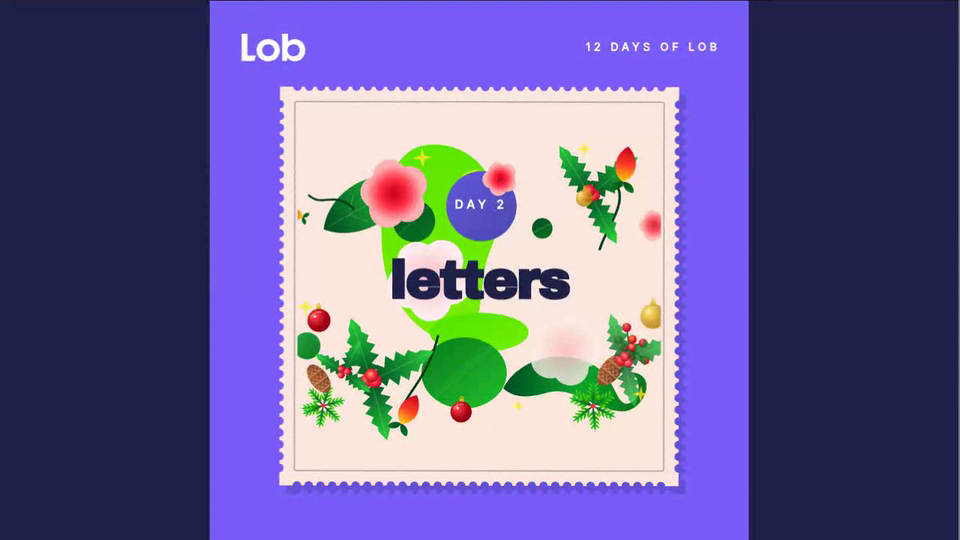
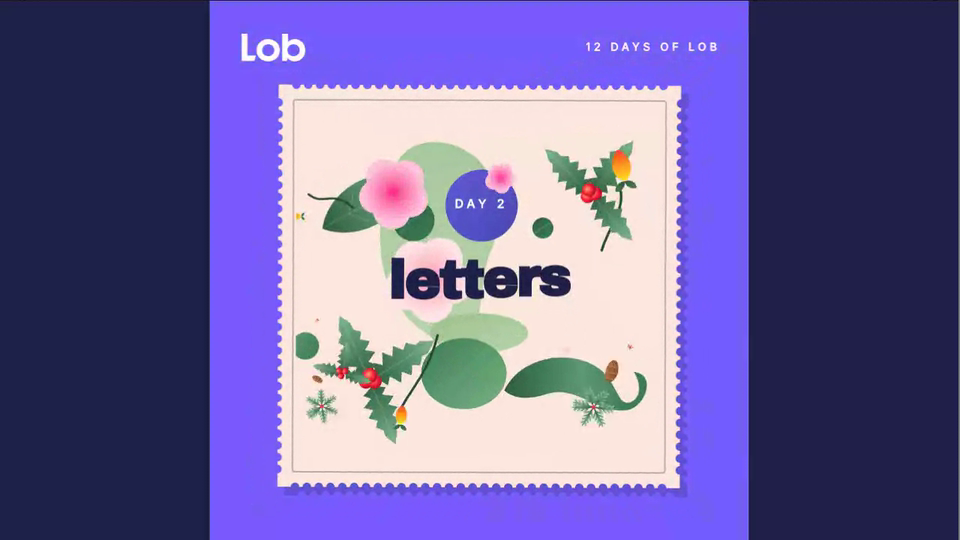
Lob 12 Days Advent: brighter reds and pinks back, muted greens in the stamp, no sparkles, gradient baubles
Claude-Session: https://claude.ai/code/session_01AHeBdxfESGkB61WPERPkmT

Changed region(s): [[0.2812, 0.1481, 0.7188, 0.9185]]

diff --git a/lob-12-days/index.html b/lob-12-days/index.html
@@ -68,8 +68,8 @@ function txt(s,a,b,size,col,{w='bold',f='Arial',al='left',ls=0,it=false,max=0}={
   x.fillText(s,a,b);x.restore()}
 
 /* ---------- botanical bouquet, airbrushed gradients on cream ---------- */
-const CREAM='#FCE8DF',DG='#00391B';
-const PAL={pink:['#FF2D8B','#FF7FB5','#FFC2DD'],red:['#C8001F','#FF2A3D','#FFB3B8'],orange:['#FF5A1F','#FF9E6B','#FFD0B5'],snow:['#FF86B8','#FFD0E4','#FFF1F6'],blush:['#FFB9C4','#FFD3D9','#FFEDEF']};
+const CREAM='#FCE8DF',DG='#27493A';
+const PAL={pink:['#FF2D8B','#FF7FB5','#FFC2DD'],red:['#FF2A3D','#FF7A8A','#FFC7CF'],orange:['#FF5A1F','#FF9E6B','#FFD0B5'],snow:['#FF86B8','#FFD0E4','#FFF1F6'],blush:['#FF9DB8','#FFC0D0','#FFE3EA']};
 const sn=(a,b)=>Math.sin(T*a+(b||0));
 function lg(x0,y0,x1,y1,st){const g=x.createLinearGradient(x0,y0,x1,y1);st.forEach(([o,c])=>g.addColorStop(o,c));return g}
 function rg(cx,cy,r0,r1,st){const g=x.createRadialGradient(cx,cy,r0,cx,cy,r1);st.forEach(([o,c])=>g.addColorStop(o,c));return g}
@@ -84,39 +84,39 @@ function petals(r,pal,n,wid,tip){for(let k=0;k<n;k++){x.save();x.rotate(k*Math.P
     x.fillStyle=lg(0,0,L,0,[[0,pal[0]],[.5,pal[1]],[1,pal[2]]]);x.fill();x.strokeStyle='rgba(255,255,255,.55)';x.lineWidth=2;x.lineCap='round';x.beginPath();x.moveTo(L*.12,0);x.lineTo(L*.88,0);x.moveTo(L*.15,0);x.lineTo(L*.7,-L*wid*.55);x.moveTo(L*.15,0);x.lineTo(L*.7,L*wid*.55);x.stroke();x.restore()}}
 function lily(r,pal){petals(r,pal,6,.34,false);x.beginPath();x.arc(0,0,r*.1,0,7);x.fillStyle=pal[0];x.fill()}
 function poin(r,pal){petals(r,['#C8102E','#FF2A3D','#FF8A80'],8,.3,true);x.save();x.rotate(.4);petals(r*.68,['#E31B3C','#FF4B5C','#FFB3B8'],7,.3,true);x.restore();
-  [[0,0,.1],[.12,-.1,.07],[-.1,-.12,.07],[.1,.12,.07],[-.13,.08,.07],[0,-.2,.06],[.2,0,.06]].forEach(([a,b,q],i)=>{x.beginPath();x.arc(a*r,b*r,q*r,0,7);x.fillStyle=rg(a*r,b*r,0,q*r,[[0,'#F3FF3A'],[1,i%2?'#FF9E1F':'#9AE600']]);x.fill()})}
+  [[0,0,.1],[.12,-.1,.07],[-.1,-.12,.07],[.1,.12,.07],[-.13,.08,.07],[0,-.2,.06],[.2,0,.06]].forEach(([a,b,q],i)=>{x.beginPath();x.arc(a*r,b*r,q*r,0,7);x.fillStyle=rg(a*r,b*r,0,q*r,[[0,'#F3FF3A'],[1,i%2?'#FF9E1F':'#A9C47A']]);x.fill()})}
 function holly(r){[[-1.95,.95],[-.5,1],[1.25,.9]].forEach(([a,k])=>{x.save();x.rotate(a);const L=r*k,W=L*.24;x.beginPath();const top=[],bot=[];for(let i=0;i<=6;i++){const t=i/6,hw=Math.sin(Math.PI*Math.pow(t,.75))*W;top.push([L*t,-hw]);top.push([L*(t+1/12),-hw*.5]);bot.push([L*t,hw]);bot.push([L*(t+1/12),hw*.5])}
-    x.moveTo(0,0);top.forEach(p=>x.lineTo(p[0],p[1]));x.lineTo(L,0);bot.reverse().forEach(p=>x.lineTo(p[0],p[1]));x.closePath();x.fillStyle=lg(0,0,L,0,[[0,'#004C25'],[1,'#27D63A']]);x.fill();x.strokeStyle='rgba(255,255,255,.3)';x.lineWidth=2;x.beginPath();x.moveTo(L*.05,0);x.lineTo(L*.92,0);x.stroke();x.restore()});
+    x.moveTo(0,0);top.forEach(p=>x.lineTo(p[0],p[1]));x.lineTo(L,0);bot.reverse().forEach(p=>x.lineTo(p[0],p[1]));x.closePath();x.fillStyle=lg(0,0,L,0,[[0,'#2F5D45'],[1,'#7DB88A']]);x.fill();x.strokeStyle='rgba(255,255,255,.3)';x.lineWidth=2;x.beginPath();x.moveTo(L*.05,0);x.lineTo(L*.92,0);x.stroke();x.restore()});
   [[-12,0],[12,2],[0,-16]].forEach(([a,b])=>{x.beginPath();x.arc(a,b,r*.1,0,7);x.fillStyle=rg(a-4,b-4,0,r*.12,[[0,'#FFB07A'],[.5,'#FF2A3D'],[1,'#B0102A']]);x.fill()})}
-function fir(r){for(let k=0;k<7;k++){x.save();x.rotate(-Math.PI*.95+k*Math.PI*.32);const L=r*(.8+((k*3)%3)*.12);leaf(L,L*.07,'#004C25','#1FC62A',false);
-    for(let t=.2;t<.85;t+=.17){[-1,1].forEach(sg=>{x.save();x.translate(L*t,0);x.rotate(sg*.75);leaf(L*.38*(1-t*.5),L*.055,t<.5?'#0A7A1E':'#0FA82C','#5DE800',false);x.restore()})}x.restore()}
+function fir(r){for(let k=0;k<7;k++){x.save();x.rotate(-Math.PI*.95+k*Math.PI*.32);const L=r*(.8+((k*3)%3)*.12);leaf(L,L*.07,'#2F5D45','#7BB486',false);
+    for(let t=.2;t<.85;t+=.17){[-1,1].forEach(sg=>{x.save();x.translate(L*t,0);x.rotate(sg*.75);leaf(L*.38*(1-t*.5),L*.055,t<.5?'#3F7D59':'#5E9B6F','#A9C99C',false);x.restore()})}x.restore()}
   x.beginPath();x.arc(0,0,r*.07,0,7);x.fillStyle='#FF2A3D';x.fill()}
-function mistle(r){for(let k=0;k<4;k++){x.save();x.rotate(-Math.PI*.8+k*Math.PI*.45);leaf(r*.85,r*.2,'#6FD100','#EEFF4A');x.translate(r*.4,0);x.rotate(.7);leaf(r*.5,r*.14,'#9AE600','#F3FF70',false);x.restore()}
+function mistle(r){for(let k=0;k<4;k++){x.save();x.rotate(-Math.PI*.8+k*Math.PI*.45);leaf(r*.85,r*.2,'#9FB873','#DDE7A0');x.translate(r*.4,0);x.rotate(.7);leaf(r*.5,r*.14,'#A9C47A','#E6EEB8',false);x.restore()}
   [[-14,-8],[12,-12],[0,10],[16,10],[-18,12]].forEach(([a,b])=>{x.beginPath();x.arc(a,b,r*.11,0,7);x.fillStyle=rg(a-4,b-4,0,r*.13,[[0,'#FFFFFF'],[1,'#FFD6E6']]);x.fill()})}
-function berry(r){x.strokeStyle='#0A7A1E';x.lineWidth=5;x.lineCap='round';const P=[];for(let k=0;k<9;k++){const a=k*2.4,d=r*(.12+k*.085);P.push([Math.cos(a)*d,Math.sin(a)*d])}
+function berry(r){x.strokeStyle='#3F7D59';x.lineWidth=5;x.lineCap='round';const P=[];for(let k=0;k<9;k++){const a=k*2.4,d=r*(.12+k*.085);P.push([Math.cos(a)*d,Math.sin(a)*d])}
   P.forEach(p=>{x.beginPath();x.moveTo(0,0);x.lineTo(p[0],p[1]);x.stroke()});P.forEach(([a,b],i)=>{x.beginPath();x.arc(a,b,r*.17,0,7);x.fillStyle=rg(a-r*.05,b-r*.05,0,r*.19,[[0,i%3?'#FF9A6B':'#FFC09A'],[.45,i%2?'#FF2A3D':'#FF4B2A'],[1,'#B0102A']]);x.fill()})}
-function ivy(r){for(let k=0;k<5;k++){x.save();x.rotate(-Math.PI*.95+k*Math.PI*.4);const L=r*(.8+((k*5)%3)*.08);[-.75,0,.75].forEach((a,i)=>{x.save();x.translate(L*.3*(i?.7:0),0);x.rotate(a);leaf(L*(i===1?.75:.55),L*.2,'#004C25','#2CD92C');x.restore()});x.restore()}}
+function ivy(r){for(let k=0;k<5;k++){x.save();x.rotate(-Math.PI*.95+k*Math.PI*.4);const L=r*(.8+((k*5)%3)*.08);[-.75,0,.75].forEach((a,i)=>{x.save();x.translate(L*.3*(i?.7:0),0);x.rotate(a);leaf(L*(i===1?.75:.55),L*.2,'#2F5D45','#8FC39A');x.restore()});x.restore()}}
 function amaryl(r){petals(r,['#C8102E','#FF4B5C','#FFE8EA'],6,.42,false);x.beginPath();for(let k=0;k<8;k++)x.lineTo(Math.cos(k*Math.PI/4)*(k%2?r*.05:r*.12),Math.sin(k*Math.PI/4)*(k%2?r*.05:r*.12));x.closePath();x.fillStyle='#F3FF3A';x.fill()}
-function bud(len){x.beginPath();x.moveTo(0,0);x.bezierCurveTo(-len*.45,-len*.25,-len*.3,-len*.8,0,-len);x.bezierCurveTo(len*.3,-len*.8,len*.45,-len*.25,0,0);x.fillStyle=lg(0,0,0,-len,[[0,'#FFD60A'],[.5,'#FF3B2A'],[1,'#C8001F']]);x.fill();
-  [-1,1].forEach(sg=>{x.save();x.rotate(Math.PI/2+sg*.9);leaf(len*.42,len*.13,'#004C25','#0A7A1E',false);x.restore()})}
+function bud(len){x.beginPath();x.moveTo(0,0);x.bezierCurveTo(-len*.45,-len*.25,-len*.3,-len*.8,0,-len);x.bezierCurveTo(len*.3,-len*.8,len*.45,-len*.25,0,0);x.fillStyle=lg(0,0,0,-len,[[0,'#FFE81F'],[.5,'#FF9A1F'],[1,'#FF3B1F']]);x.fill();
+  [-1,1].forEach(sg=>{x.save();x.rotate(Math.PI/2+sg*.9);leaf(len*.42,len*.13,'#2F5D45','#3F7D59',false);x.restore()})}
 function stem(pts,w){x.beginPath();x.moveTo(pts[0][0],pts[0][1]);x.bezierCurveTo(pts[1][0],pts[1][1],pts[2][0],pts[2][1],pts[3][0],pts[3][1]);x.strokeStyle=DG;x.lineWidth=w;x.lineCap='round';x.stroke()}
-function blob(){x.beginPath();x.moveTo(0,-330);x.bezierCurveTo(190,-330,280,-120,170,60);x.bezierCurveTo(120,160,140,260,60,330);x.bezierCurveTo(-60,380,-190,200,-190,40);x.bezierCurveTo(-190,-160,-120,-330,0,-330);x.fillStyle=lg(0,-330,0,330,[[0,'#5DE800'],[1,'#7DF000']]);x.fill()}
-function swoosh(){x.beginPath();x.moveTo(-170,70);x.bezierCurveTo(-120,-60,60,-90,150,-20);x.bezierCurveTo(200,20,210,90,250,70);x.bezierCurveTo(290,50,270,-10,250,-30);x.bezierCurveTo(330,-30,300,90,230,100);x.bezierCurveTo(130,110,60,30,-30,70);x.bezierCurveTo(-80,90,-130,100,-170,70);x.closePath();x.fillStyle=lg(-170,0,250,0,[[0,'#004C25'],[.6,'#0FA82C'],[1,'#0A7A1E']]);x.fill()}
+function blob(){x.beginPath();x.moveTo(0,-330);x.bezierCurveTo(190,-330,280,-120,170,60);x.bezierCurveTo(120,160,140,260,60,330);x.bezierCurveTo(-60,380,-190,200,-190,40);x.bezierCurveTo(-190,-160,-120,-330,0,-330);x.fillStyle=lg(0,-330,0,330,[[0,'#A9C99C'],[1,'#BAD6AE']]);x.fill()}
+function swoosh(){x.beginPath();x.moveTo(-170,70);x.bezierCurveTo(-120,-60,60,-90,150,-20);x.bezierCurveTo(200,20,210,90,250,70);x.bezierCurveTo(290,50,270,-10,250,-30);x.bezierCurveTo(330,-30,300,90,230,100);x.bezierCurveTo(130,110,60,30,-30,70);x.bezierCurveTo(-80,90,-130,100,-170,70);x.closePath();x.fillStyle=lg(-170,0,250,0,[[0,'#2F5D45'],[.6,'#5E9B6F'],[1,'#3F7D59']]);x.fill()}
 const hero={0:poin,1:holly,2:fir,3:mistle,4:berry,5:amaryl,6:ivy,7:fir,8:lily,9:lily,10:berry,11:'mix'};
-const pals=[PAL.red,PAL.red,PAL.red,PAL.red,PAL.red,PAL.red,PAL.red,PAL.red,PAL.red,PAL.red,PAL.red,PAL.red];
+const pals=[PAL.pink,PAL.red,PAL.pink,PAL.snow,PAL.orange,PAL.pink,PAL.red,PAL.orange,PAL.snow,PAL.orange,PAL.red,PAL.pink];
 /* scene items in the reference's coordinates (about 1500x1130): [draw, x, y, rot, delay, sway, front] */
 function items(){const H=hero[day],pl=pals[day],mx=day===11,hf=(k)=>mx?[poin,holly,fir][k]:H;
   const LS=(f,r,pal)=>()=>{f===lily||f===poin||f===amaryl?f(r*1.1,pal||PAL.pink):f(r*1.1)};
   return[
   [()=>blob(),610,440,-.12,.0,.01,0],
-  [()=>{x.scale(1.5,.6);orb(110,'#4CE600','#7DF000')},750,745,0,.08,.01,0],
-  [()=>orb(70,'#E8FF00','#4CE600'),740,272,0,.05,.02,0],
+  [()=>{x.scale(1.5,.6);orb(110,'#9CC48A','#BAD6AE')},750,745,0,.08,.01,0],
+  [()=>orb(70,'#DCE8A8','#9CC48A'),740,272,0,.05,.02,0],
   [()=>orb(118,'#6459DB','#4B49B2'),757,322,0,.1,.01,0],
-  [()=>orb(46,'#2CA84A','#0A7A1E'),175,790,0,.1,.01,0],
-  [()=>orb(70,'#004C25','#0A7A1E',true),532,372,0,.15,.01,0],
-  [()=>orb(34,'#004C25','#0A7A1E',true),960,396,.3,.2,.02,0],
-  [()=>leaf(330,100,'#004C25','#25D52F'),230,400,-.5,.12,.02,0],
-  [()=>{x.save();x.scale(1.2,1);orb(120,'#0A7A1E','#1FC62A',true);x.restore()},700,880,0,.2,.012,0],
+  [()=>orb(46,'#5E9B6F','#3F7D59'),175,790,0,.1,.01,0],
+  [()=>orb(70,'#2F5D45','#3F7D59',true),532,372,0,.15,.01,0],
+  [()=>orb(34,'#2F5D45','#3F7D59',true),960,396,.3,.2,.02,0],
+  [()=>leaf(330,100,'#2F5D45','#80B58B'),230,400,-.5,.12,.02,0],
+  [()=>{x.save();x.scale(1.2,1);orb(120,'#3F7D59','#7BB486',true);x.restore()},700,880,0,.2,.012,0],
   [()=>swoosh(),1010,880,.12,.25,.012,0],
   [()=>stem([[0,0],[20,60],[-40,130],[-60,200]],8),1215,265,0,.2,.03,0],
   [()=>stem([[0,0],[40,-80],[90,-120],[120,-250]],8),490,1000,0,.2,.02,0],
@@ -124,8 +124,8 @@ function items(){const H=hero[day],pl=pals[day],mx=day===11,hf=(k)=>mx?[poin,hol
   [()=>puff(135,PAL.blush,.3),585,565,0,.3,.03,0],
   [LS(hf(1),210,pl),390,905,.1,.34,.04,0],
   [LS(hf(0),190,pl),1120,285,-.15,.4,.04,0],
-  [()=>puff(112,PAL.red,.5),465,280,.2,.45,.05,0],
-  [()=>puff(56,PAL.red,.2),820,230,.3,.5,.06,0],
+  [()=>puff(112,PAL.pink,.5),465,280,.2,.45,.05,0],
+  [()=>puff(56,PAL.pink,.2),820,230,.3,.5,.06,0],
   [()=>bud(120),1230,240,.1,.5,.05,0],
   [()=>bud(110),490,1050,.5,.55,.05,0],
   [()=>bud(62),160,360,-1.15,.55,.06,0],
@@ -133,10 +133,9 @@ function items(){const H=hero[day],pl=pals[day],mx=day===11,hf=(k)=>mx?[poin,hol
   [LS(hf(2),160,pl),1235,840,.1,.62,.05,1],
   [()=>puff(52,PAL.red,.4),1335,385,.2,.7,.06,1],
   [()=>fir(105),1130,990,.4,.5,.04,0],[()=>fir(95),230,990,-.3,.52,.04,0],[()=>cone(62),1190,870,.7,.55,.03,0],[()=>cone(54),215,900,-.6,.58,.03,0],
-  [()=>bauble(38,'#FF3B3B','#9A0014'),215,705,0,.6,.05,0],[()=>bauble(42,'#FFD84A','#B8860B'),1330,690,0,.65,.05,1],[()=>bauble(36,'#FF3B3B','#9A0014'),690,1010,0,.7,.05,0],[()=>bauble(28,'#FFD84A','#B8860B'),1100,295,0,.72,.05,1],
+  [()=>bauble(38,'#FF3B5C','#FF8A2E'),215,705,0,.6,.05,0],[()=>bauble(42,'#FF8A2E','#FFC83A'),1330,690,0,.65,.05,1],[()=>bauble(36,'#FF3B5C','#FF8A2E'),690,1010,0,.7,.05,0],[()=>bauble(28,'#FF8A2E','#FFC83A'),1100,295,0,.72,.05,1],
   [()=>holly(120),300,880,-.6,.5,.04,0],
-  [()=>berry(90),1250,790,.4,.6,.04,0],
-  [()=>spark4(34),560,160,0,.7,.08,1],[()=>spark4(26),1100,130,0,.75,.08,1],[()=>spark4(30),170,660,0,.8,.08,1],[()=>spark4(28),1290,950,0,.85,.08,1],[()=>spark4(22),880,990,0,.9,.08,1]
+  [()=>berry(90),1250,790,.4,.6,.04,0]
   ]}
 function sceneDraw(front,gm){const its=items(),ex=gm;
   its.forEach((it,i)=>{if(!!it[6]!==front)return;const pp=Math.max(.0001,eob(cl((lt-.1-it[4]*1.6)/.6))*ex);
@@ -144,7 +143,7 @@ function sceneDraw(front,gm){const its=items(),ex=gm;
     if(front)x.globalAlpha=.8;it[0]();x.restore()})}
 const LOGO_P=["M113.886 29.4011C113.886 41.5261 104.676 49.2099 94.954 49.2099C89.6912 49.2099 85.0859 46.9541 82.4545 43.1474L80.7204 48.4345H72.5136L72.5119 0.000103459L82.8962 0V15.0943C85.5586 11.7125 89.7868 9.59227 94.881 9.59227C104.822 9.59227 113.886 17.2761 113.886 29.4011ZM81.9429 29.3306C81.9429 35.2521 86.6942 40.0457 92.9074 40.0457C98.9743 40.0457 103.799 35.3226 103.799 29.3306C103.799 23.3386 98.9743 18.6155 92.9074 18.6155C86.6942 18.6155 81.9429 23.4091 81.9429 29.3306Z", "M0.0016883 48.4347L22.5808 48.4345L25.7235 38.7768L10.3813 38.777L10.3796 0.000103459H0L0.0016883 48.4347Z", "M47.5044 49.2099C59.419 49.2099 68.4098 40.3276 68.4098 29.4011C68.4098 18.404 59.2729 9.59227 47.5044 9.59227C35.6629 9.59227 26.6723 18.404 26.6723 29.4011C26.6723 40.3276 35.6629 49.2099 47.5044 49.2099ZM47.5777 39.9752C41.5106 39.9752 36.7595 35.2521 36.7595 29.3306C36.7595 23.4091 41.5106 18.686 47.5777 18.686C53.5713 18.686 58.3956 23.4091 58.3956 29.3306C58.3956 35.2521 53.5713 39.9752 47.5777 39.9752Z"].map(d=>new Path2D(d));
 function logo(px,py,w,col){x.save();x.translate(px,py);const k=w/114;x.scale(k,k);x.fillStyle=col;LOGO_P.forEach(q=>x.fill(q));x.restore()}
-function bauble(r,c0,c1){x.fillStyle='#E8B923';x.fillRect(-r*.2,-r*1.22,r*.4,r*.3);ln0();x.beginPath();x.arc(0,0,r,0,7);x.fillStyle=rg(-r*.35,-r*.35,r*.05,r*1.05,[[0,'#fff'],[.12,c0],[1,c1]]);x.fill();x.strokeStyle='rgba(255,255,255,.55)';x.lineWidth=3;x.beginPath();x.arc(0,0,r*.72,Math.PI*1.1,Math.PI*1.6);x.stroke();x.beginPath();x.arc(0,-r*1.32,r*.12,0,7);x.strokeStyle='#E8B923';x.lineWidth=3;x.stroke()}
+function bauble(r,c0,c1){x.fillStyle='#E8B923';x.fillRect(-r*.2,-r*1.22,r*.4,r*.3);x.beginPath();x.arc(0,0,r,0,7);x.fillStyle=lg(0,-r,0,r,[[0,c0],[.55,c1],[1,'#FFE066']]);x.fill();x.beginPath();x.arc(0,-r*1.32,r*.12,0,7);x.strokeStyle='#E8B923';x.lineWidth=3;x.stroke()}
 function ln0(){}
 function cone(r){x.beginPath();x.ellipse(0,0,r*.55,r,0,0,7);x.fillStyle=lg(-r,0,r,0,[[0,'#C06A3A'],[1,'#6B3419']]);x.fill();x.save();x.clip();x.strokeStyle='rgba(255,220,170,.4)';x.lineWidth=2.5;for(let i=-4;i<=4;i++){x.beginPath();x.arc(i*r*.28,-r*.9,r*.55,.2,Math.PI-.2);x.stroke();x.beginPath();x.arc(i*r*.28,-r*.35,r*.55,.2,Math.PI-.2);x.stroke();x.beginPath();x.arc(i*r*.28,r*.2,r*.55,.2,Math.PI-.2);x.stroke()}x.restore()}
 function spark4(r){x.beginPath();for(let i=0;i<8;i++){const a=i*Math.PI/4-Math.PI/2,rr=i%2?r*.28:r;x.lineTo(Math.cos(a)*rr,Math.sin(a)*rr)}x.closePath();x.fillStyle='#FFE81F';x.fill()}
